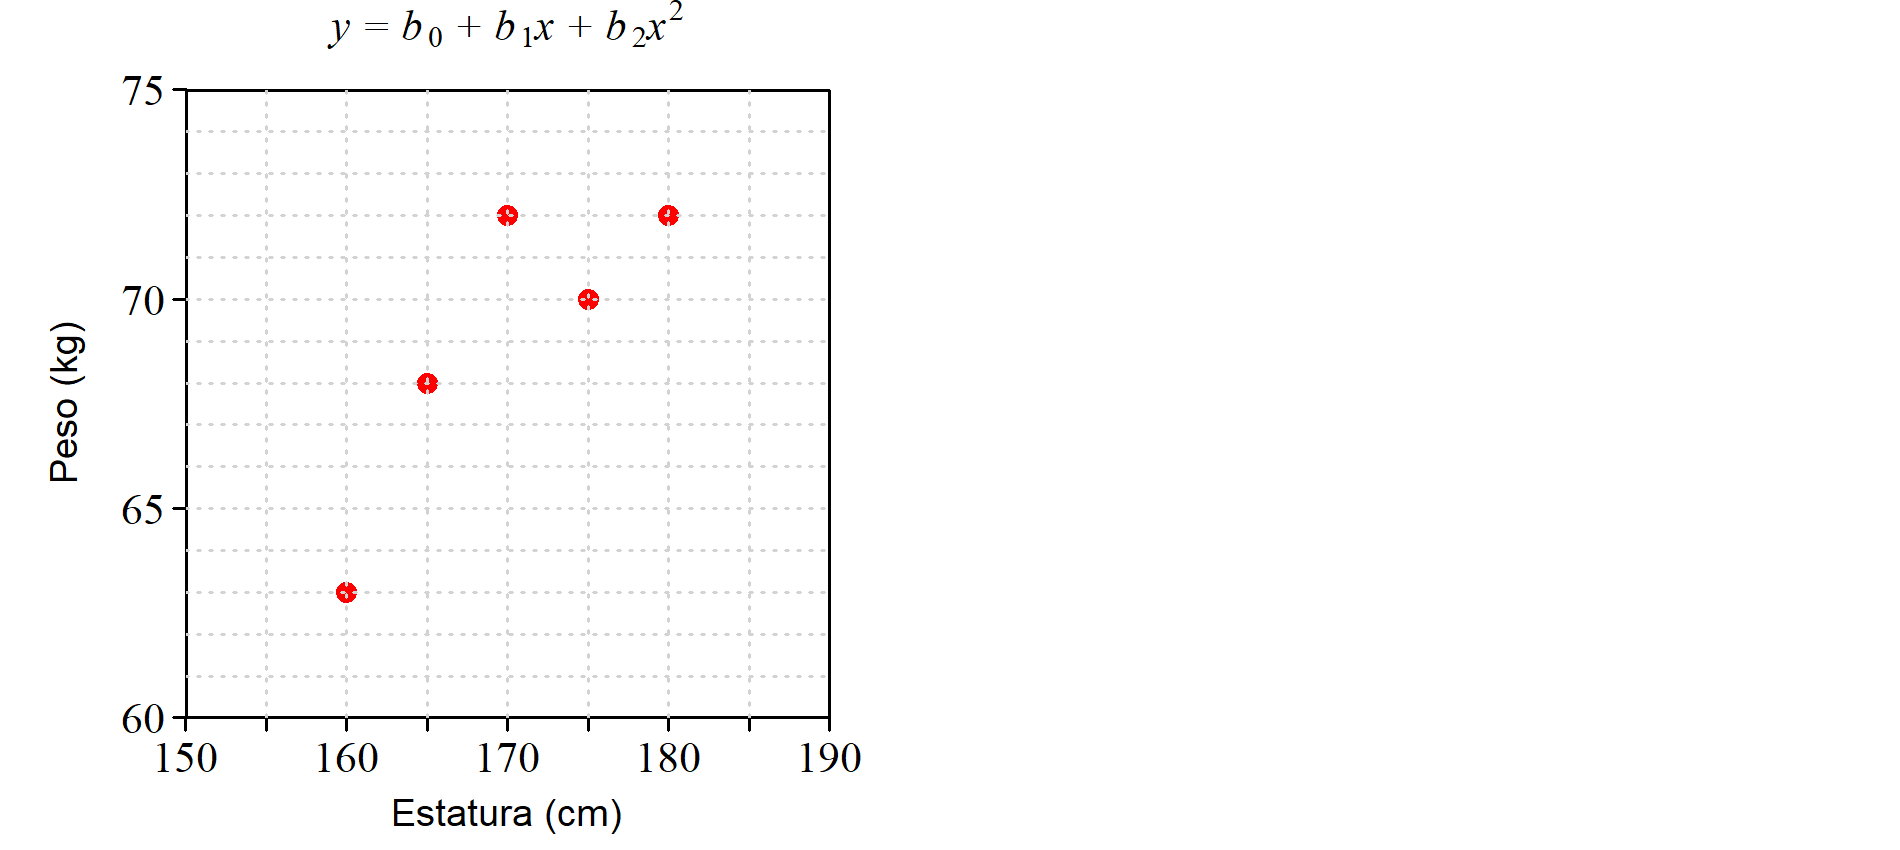
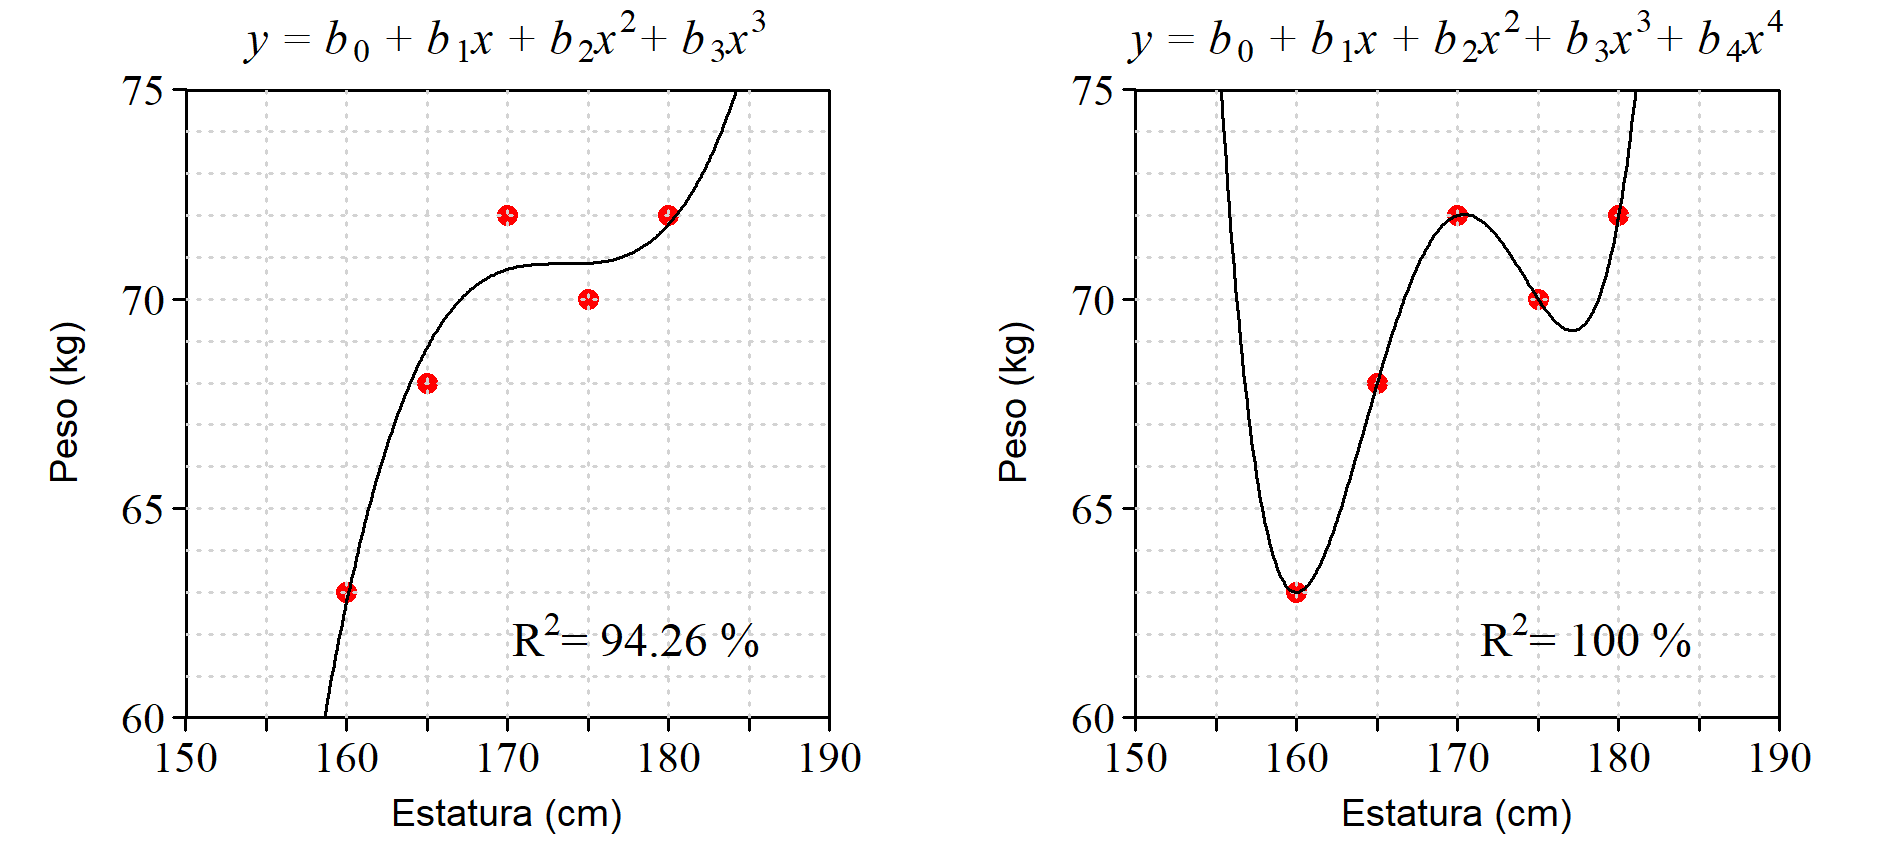
Sigo con regresión

diff --git a/docs/regresionSimple.html b/docs/regresionSimple.html
@@ -287,10 +287,11 @@ div.csl-indent {
   </ul></li>
   <li><a href="#calidad-del-ajuste" id="toc-calidad-del-ajuste" class="nav-link" data-scroll-target="#calidad-del-ajuste"><span class="header-section-number">11.4</span> Calidad del ajuste</a></li>
   <li><a href="#relación-no-lineal-entre-x-e-y" id="toc-relación-no-lineal-entre-x-e-y" class="nav-link" data-scroll-target="#relación-no-lineal-entre-x-e-y"><span class="header-section-number">11.5</span> Relación no lineal entre <span class="math inline">\(X\)</span> e <span class="math inline">\(Y\)</span></a></li>
-  <li><a href="#las-cosas-se-complican-lo-que-tenemos-es-una-muestra" id="toc-las-cosas-se-complican-lo-que-tenemos-es-una-muestra" class="nav-link" data-scroll-target="#las-cosas-se-complican-lo-que-tenemos-es-una-muestra"><span class="header-section-number">11.6</span> Las cosas se complican: Lo que tenemos es una muestra</a>
+  <li><a href="#transformación-logarítmica" id="toc-transformación-logarítmica" class="nav-link" data-scroll-target="#transformación-logarítmica"><span class="header-section-number">11.6</span> Transformación logarítmica</a></li>
+  <li><a href="#las-cosas-se-complican-lo-que-tenemos-es-una-muestra" id="toc-las-cosas-se-complican-lo-que-tenemos-es-una-muestra" class="nav-link" data-scroll-target="#las-cosas-se-complican-lo-que-tenemos-es-una-muestra"><span class="header-section-number">11.7</span> Las cosas se complican: Lo que tenemos es una muestra</a>
   <ul class="collapse">
   <li><a href="#condiciones-que-deben-reunir-los-datos" id="toc-condiciones-que-deben-reunir-los-datos" class="nav-link" data-scroll-target="#condiciones-que-deben-reunir-los-datos">Condiciones que deben reunir los datos</a></li>
-  <li><a href="#references" id="toc-references" class="nav-link" data-scroll-target="#references"><span class="header-section-number">11.6.1</span> References</a></li>
+  <li><a href="#references" id="toc-references" class="nav-link" data-scroll-target="#references"><span class="header-section-number">11.7.1</span> References</a></li>
   </ul></li>
   </ul>
 </nav>
@@ -568,22 +569,23 @@ La recta ajustada pasa por el punto <span class="math inline">\((\bar{x}, \bar{y
 </section>
 <section id="relación-no-lineal-entre-x-e-y" class="level2" data-number="11.5">
 <h2 data-number="11.5" class="anchored" data-anchor-id="relación-no-lineal-entre-x-e-y"><span class="header-section-number">11.5</span> Relación no lineal entre <span class="math inline">\(X\)</span> e <span class="math inline">\(Y\)</span></h2>
-<p>Si la relación entre <span class="math inline">\(X\)</span> e <span class="math inline">\(Y\)</span> no es lineal, puede utilizarse el conocimiento del fenómeno que se estudia para plantear un modelo que se adapte a los datos. Los modelos polinómicos de segundo grado son muy versátiles y pueden ser una buena opción. También se puede ajustar a modelos linealizables transformando los valores de <span class="math inline">\(X\)</span>, los de <span class="math inline">\(Y\)</span>, o ambos. Si nuestros datos se ajustan a una función del tipo <span class="math inline">\(y = \beta_0 e^{\beta_1 x}\)</span> podemos realizar el cambio <span class="math inline">\(y' = \ln y\)</span> obteniendo el modelo lineal: <span class="math inline">\(y' = \ln \beta_0 + \beta_1 x\)</span> a partir del cual se deducen de forma inmediata los coeficientes del modelo original. Interesados en este tipo de transformaciones pueden consultar <span class="citation" data-cites="MontgomeryPeck">Montgomery y Peck (<a href="regresionSimple.html#ref-MontgomeryPeck" role="doc-biblioref">1992</a>)</span> pág. 90. o <span class="citation" data-cites="PeñaRegre">Peña (<a href="regresionSimple.html#ref-PeñaRegre" role="doc-biblioref">2002</a>)</span> pág. 314.</p>
-<p>La figura <a href="#fig-Poli_01"><span>11.8</span></a> muestra los datos de producción de electricidad de un aerogenerador según sea la velocidad del viento (datos en: <span class="citation" data-cites="MontgomeryPeck">Montgomery y Peck (<a href="regresionSimple.html#ref-MontgomeryPeck" role="doc-biblioref">1992</a>)</span>, pág. 92). Se observa una relación no lineal, cuando la velocidad del viento es baja, pequeños incrementos en la velocidad tienen un impacto importante en la producción de electricidad, mientras que para velocidades altas la producción tiende a estabilizarse. Ajustando a una parábola se obtiene <span class="math inline">\(y = -1,156 + 0,7229x -0,03812x^2\)</span> con un coeficiende de determinación <span class="math inline">\(R^2 = 96,8%\)</span>, lo cual no está nada mal.</p>
+<p>Si la relación entre <span class="math inline">\(X\)</span> e <span class="math inline">\(Y\)</span> no es lineal, puede utilizarse el conocimiento del fenómeno que se estudia para plantear un modelo que se ajuste a los datos. Los modelos polinómicos de segundo grado son muy versátiles y pueden ser una buena opción. También se puede ajustar a modelos linealizables transformando los valores de <span class="math inline">\(X\)</span>, los de <span class="math inline">\(Y\)</span>, o ambos. Si nuestros datos se ajustan a una función del tipo <span class="math inline">\(y = \beta_0 e^{\beta_1 x}\)</span>, podemos realizar el cambio <span class="math inline">\(y' = \ln y\)</span> obteniendo el modelo lineal: <span class="math inline">\(y' = \ln \beta_0 + \beta_1 x\)</span> a partir del cual se deducen de forma inmediata los coeficientes del modelo original. Interesados en este tipo de transformaciones para linealizar la dependencia pueden consultar <span class="citation" data-cites="MontgomeryPeck">Montgomery y Peck (<a href="regresionSimple.html#ref-MontgomeryPeck" role="doc-biblioref">1992</a>)</span> pág. 90. o <span class="citation" data-cites="PeñaRegre">Peña (<a href="regresionSimple.html#ref-PeñaRegre" role="doc-biblioref">2002</a>)</span> pág. 314.</p>
+<p>La figura <a href="#fig-Poli_01"><span>11.8</span></a> muestra los datos de producción de electricidad de un aerogenerador según sea la velocidad del viento (datos en: <span class="citation" data-cites="MontgomeryPeck">Montgomery y Peck (<a href="regresionSimple.html#ref-MontgomeryPeck" role="doc-biblioref">1992</a>)</span>, pág. 92). Se observa una relación no lineal ya que cuando la velocidad del viento es baja, pequeños incrementos en la velocidad tienen un impacto importante en la producción de electricidad, mientras que para velocidades altas la producción tiende a estabilizarse. Ajustando a una parábola se obtiene <span class="math inline">\(y = -1,156 + 0,7229x -0,03812x^2\)</span> con un coeficiende de determinación <span class="math inline">\(R^2 = 96,8%\)</span>, lo cual no está nada mal.</p>
 <div id="fig-Poli_01" class="quarto-figure quarto-figure-center anchored">
 <figure class="figure">
 <p><img src="ScriptsR/polinomica_01.png" class="img-fluid figure-img" style="width:100.0%"></p>
 <figcaption class="figure-caption">Figura&nbsp;11.8: Texto figura.</figcaption>
 </figure>
 </div>
-<p>Otra opción es estudiar la producción de electricidad en función de la inversa de la velocidad del viento. Creamos la variable <span class="math inline">\(X' = 1/X\)</span> y obtenemos el ajuste: <span class="math inline">\(y = 2,979 - 6,935/x\)</span> con un <span class="math inline">\(R^2 = 97,9%\)</span> que es también un valor excelente y, además, con un modelo más compacto.</p>
+<p>Otra opción es estudiar la producción de electricidad en función de la inversa de la velocidad del viento (figura <a href="#fig-Poli_02"><span>11.11</span></a>). Creamos la variable <span class="math inline">\(X' = 1/X\)</span> y obtenemos el ajuste: <span class="math inline">\(y = 2,979 - 6,935/x\)</span> con un <span class="math inline">\(R^2 = 97,9%\)</span> que es también un valor excelente y, además, con un modelo más compacto. En general, trabajar con la inversa de <span class="math inline">\(X\)</span> puede ser una buena alternativa al modelo cuadrático.</p>
 <div id="fig-Poli_02" class="quarto-figure quarto-figure-center anchored">
 <figure class="figure">
 <p><img src="ScriptsR/polinomica_02.png" class="img-fluid figure-img" style="width:100.0%"></p>
 <figcaption class="figure-caption">Figura&nbsp;11.9: Múltiples opciones para minimizar la suma de los residuos en valor absoluto.</figcaption>
 </figure>
 </div>
-<p>Obsesionarse con el mejor ajuste (mayor valor de <span class="math inline">\(R^2\)</span>) no suele ser una buena idea. *** Ir subiendo el grado del polinomio.</p>
+<p>Hay que tener en cuenta que el modelo más adecuado no necesariamente es el que tiene el <span class="math inline">\(R^2\)</span> más elevado. Nos interesa que el modelo sea compacto y que pueda interpretarse y sea coherente con nuestro conocimiento del fenómeno en estudio. Si vamos aumentando el grado del polinomio ajustado cada vez tendremos un mayor valor de <span class="math inline">\(R^2\)</span> incluso, si tenemos pocos datos, podemos llegar a un <span class="math inline">\(R^2\)</span> del 100% siendo el modelo obtenido totalmente inútil.</p>
+<p>Volviendo a los datos de la figura <a href="#fig-R2_01"><span>11.7</span></a> donde a partir de los pesos de 5 personas (efectivamente son muy pocas, es solo un ejemplo) queremos modelar la relación entre peso y estatura, el modelo lineal es el más razonable. Si ajustamos los datos a un modelo cuadrático se tiene un máximo de peso en torno a una estatura de 175 cm que no tiene sentido. El polinomio de tercer grado presenta una forma que tampoco parece razonable y el de cuarto grado es un modelo con 5 parámetros (los 4 coeficientes y la ordenada en el origen) y como tenemos 5 puntos ajusta perfectamente, pero ni es un modelo razonable ni sirve en absoluto para estimar el peso de un individuo a partir de su altura (sí lo explica para los 5 individuos usados para construir el modelo, pero para esos ya lo sabíamos, no hace falta una fórmula para deducir uno en función del otro). Recuerdeo que dos puntos se ajustan perfectamente a un modelo con dos parámetros (una recta) tres puntos a un modelo con tres parámetros, … etc. Estos son modelos que explican muy bien lo que ya se sabe, pero son totalmente inútiles para hacer predicciones que es lo que -en general- se pretende. [citar la figura <a href="#fig-Poli_04"><span>11.10</span></a>].</p>
 <div class="quarto-layout-panel">
 <div class="quarto-layout-row quarto-layout-valign-top">
 <div class="quarto-layout-cell" style="flex-basis: 100.0%;justify-content: center;">
@@ -592,7 +594,7 @@ La recta ajustada pasa por el punto <span class="math inline">\((\bar{x}, \bar{y
 </div>
 <div class="quarto-layout-row quarto-layout-valign-top">
 <div class="quarto-layout-cell" style="flex-basis: 100.0%;justify-content: center;">
-<div id="fig-Poli_02" class="quarto-figure quarto-figure-center anchored">
+<div id="fig-Poli_04" class="quarto-figure quarto-figure-center anchored">
 <figure class="figure">
 <p><img src="ScriptsR/polinomica_04.png" class="img-fluid figure-img"></p>
 <figcaption class="figure-caption">Figura&nbsp;11.10: Múltiples opciones para minimizar la suma de los residuos en valor absoluto.</figcaption>
@@ -603,14 +605,38 @@ La recta ajustada pasa por el punto <span class="math inline">\((\bar{x}, \bar{y
 </div>
 <p>Se trata de prever lo que pasará, no de explicar lo que ya ha pasado, pero de eso hablamos en el siguiente apartado.</p>
 </section>
-<section id="las-cosas-se-complican-lo-que-tenemos-es-una-muestra" class="level2" data-number="11.6">
-<h2 data-number="11.6" class="anchored" data-anchor-id="las-cosas-se-complican-lo-que-tenemos-es-una-muestra"><span class="header-section-number">11.6</span> Las cosas se complican: Lo que tenemos es una muestra</h2>
+<section id="transformación-logarítmica" class="level2" data-number="11.6">
+<h2 data-number="11.6" class="anchored" data-anchor-id="transformación-logarítmica"><span class="header-section-number">11.6</span> Transformación logarítmica</h2>
+<p>texto</p>
+<div id="fig-Poli_02" class="quarto-figure quarto-figure-center anchored">
+<figure class="figure">
+<p><img src="ScriptsR/brainBody.png" class="img-fluid figure-img" style="width:100.0%"></p>
+<figcaption class="figure-caption">Figura&nbsp;11.11: Múltiples opciones para minimizar la suma de los residuos en valor absoluto.</figcaption>
+</figure>
+</div>
+<p>texto</p>
+<div class="callout callout-style-default callout-note callout-titled">
+<div class="callout-header d-flex align-content-center">
+<div class="callout-icon-container">
+<i class="callout-icon"></i>
+</div>
+<div class="callout-title-container flex-fill">
+Transformación logarítmica: No importa la base
+</div>
+</div>
+<div class="callout-body-container callout-body">
+<p>Efectivamente, en el caso que estamos considerando de regresión simple, el coeficiente de determinación <span class="math inline">\(R^2\)</span> es igual al cuadrado del coeficiente de correlación <span class="math inline">\(r\)</span>. Este último puede variar entre <span class="math inline">\(-1\)</span> y <span class="math inline">\(1\)</span> por lo que, obviamente, <span class="math inline">\(R^2\)</span> varía entre 0 y 1. La demostración es corta y fácil de encontrar en internet. Por ejemplo en:</p>
+</div>
+</div>
+</section>
+<section id="las-cosas-se-complican-lo-que-tenemos-es-una-muestra" class="level2" data-number="11.7">
+<h2 data-number="11.7" class="anchored" data-anchor-id="las-cosas-se-complican-lo-que-tenemos-es-una-muestra"><span class="header-section-number">11.7</span> Las cosas se complican: Lo que tenemos es una muestra</h2>
 <section id="condiciones-que-deben-reunir-los-datos" class="level3 unnumbered">
 <h3 class="unnumbered anchored" data-anchor-id="condiciones-que-deben-reunir-los-datos">Condiciones que deben reunir los datos</h3>
 <p>Cuanto más pedimos a los datos, más exigentes debemos ser con las condiciones que deben cumplir.</p>
 </section>
-<section id="references" class="level3" data-number="11.6.1">
-<h3 data-number="11.6.1" class="anchored" data-anchor-id="references"><span class="header-section-number">11.6.1</span> References</h3>
+<section id="references" class="level3" data-number="11.7.1">
+<h3 data-number="11.7.1" class="anchored" data-anchor-id="references"><span class="header-section-number">11.7.1</span> References</h3>
 <div id="refs" class="references csl-bib-body hanging-indent" role="list">
 <div id="ref-Draper98" class="csl-entry" role="listitem">
 Draper, N. R., and H. Smith. 1998. <em>Applied Regression Analysis</em>.
